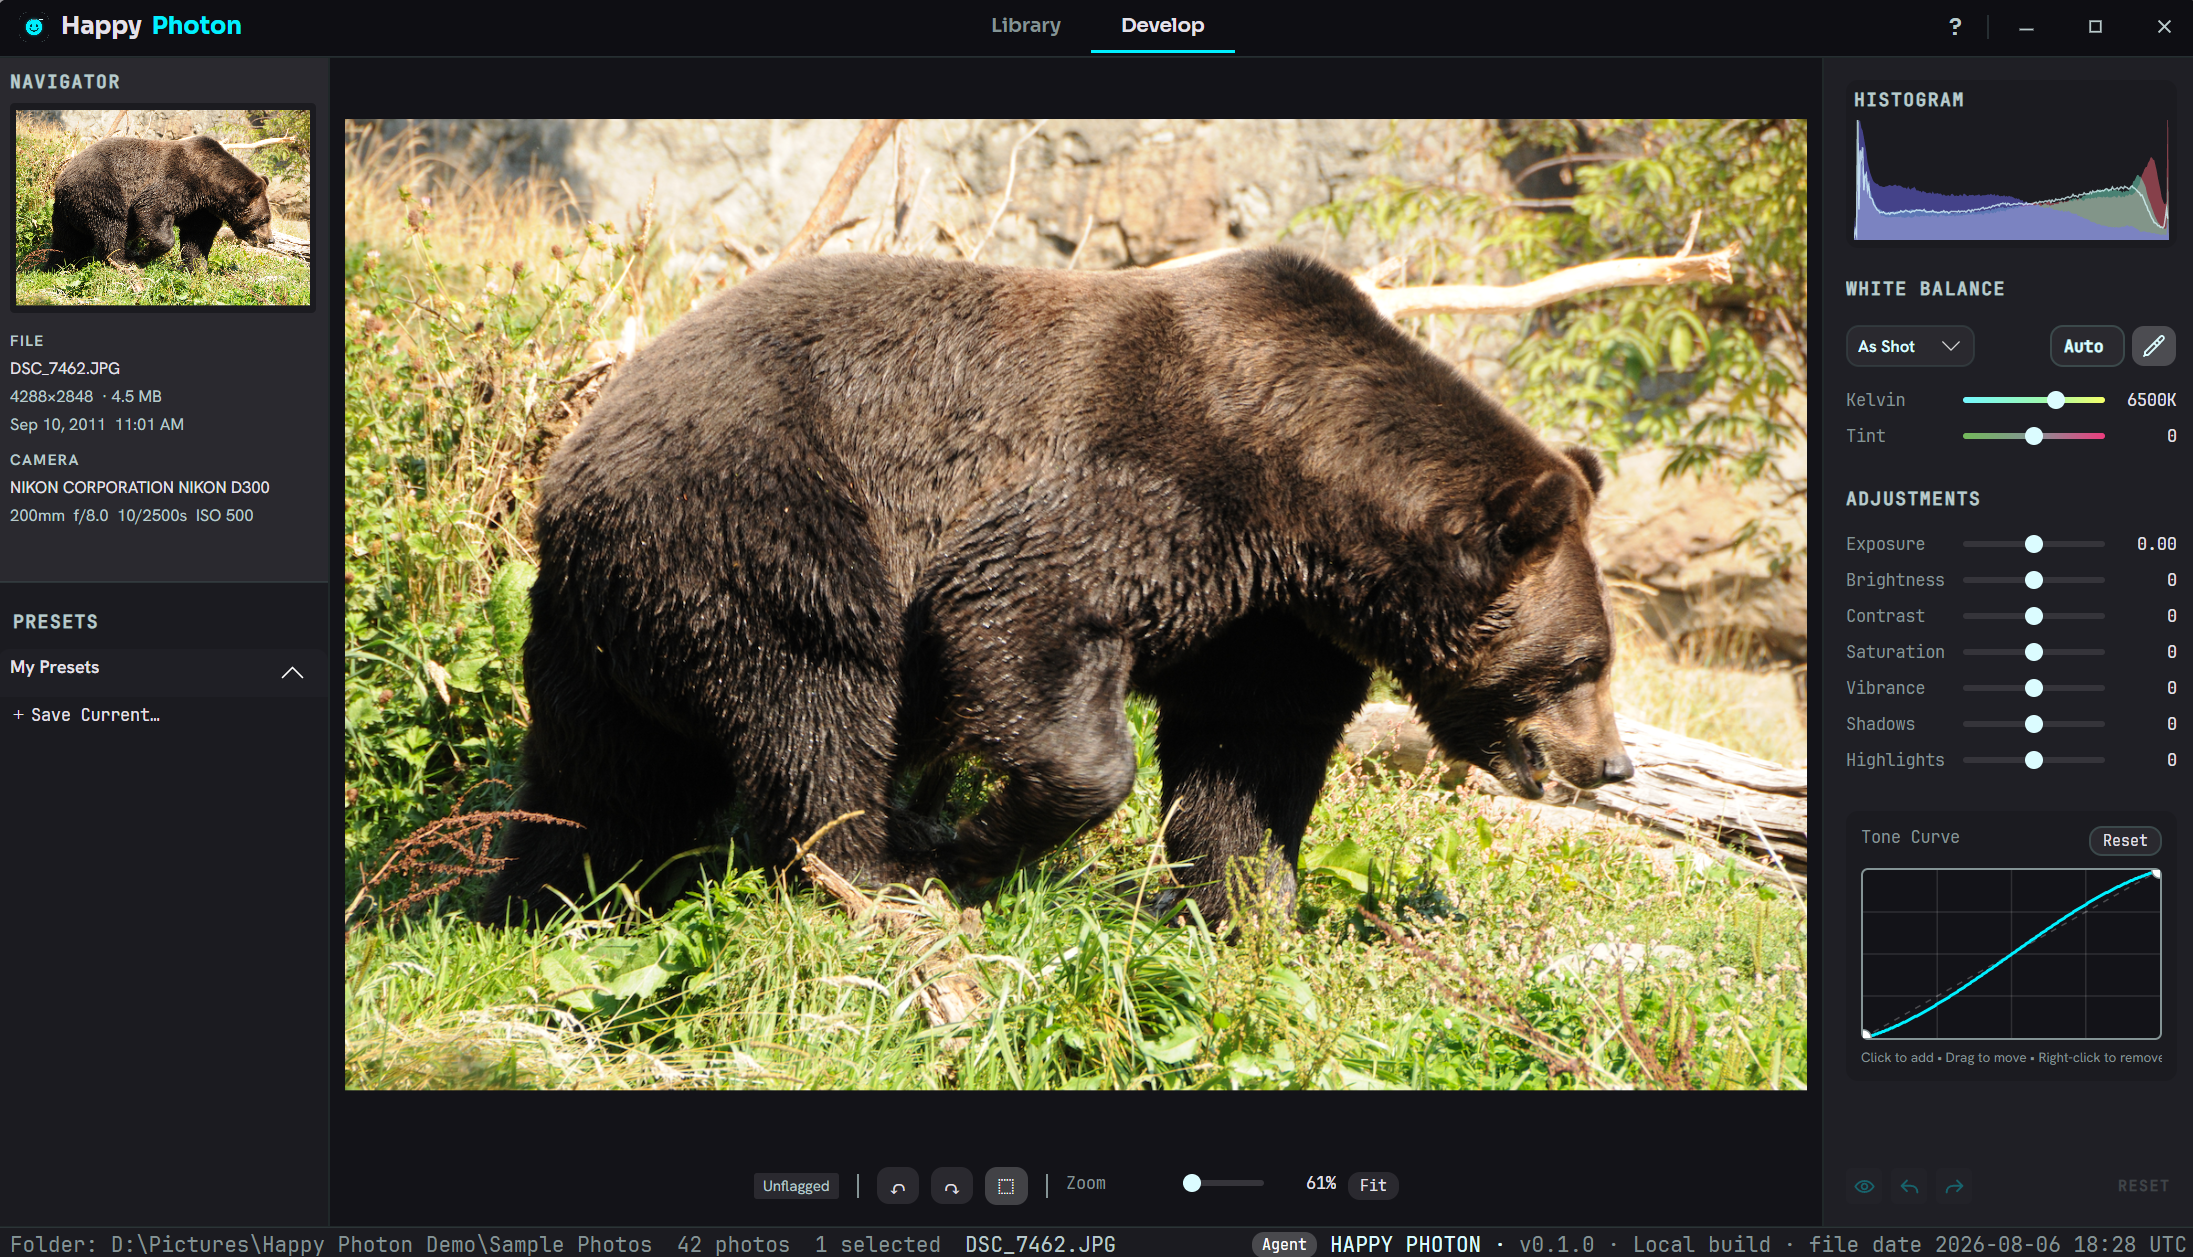
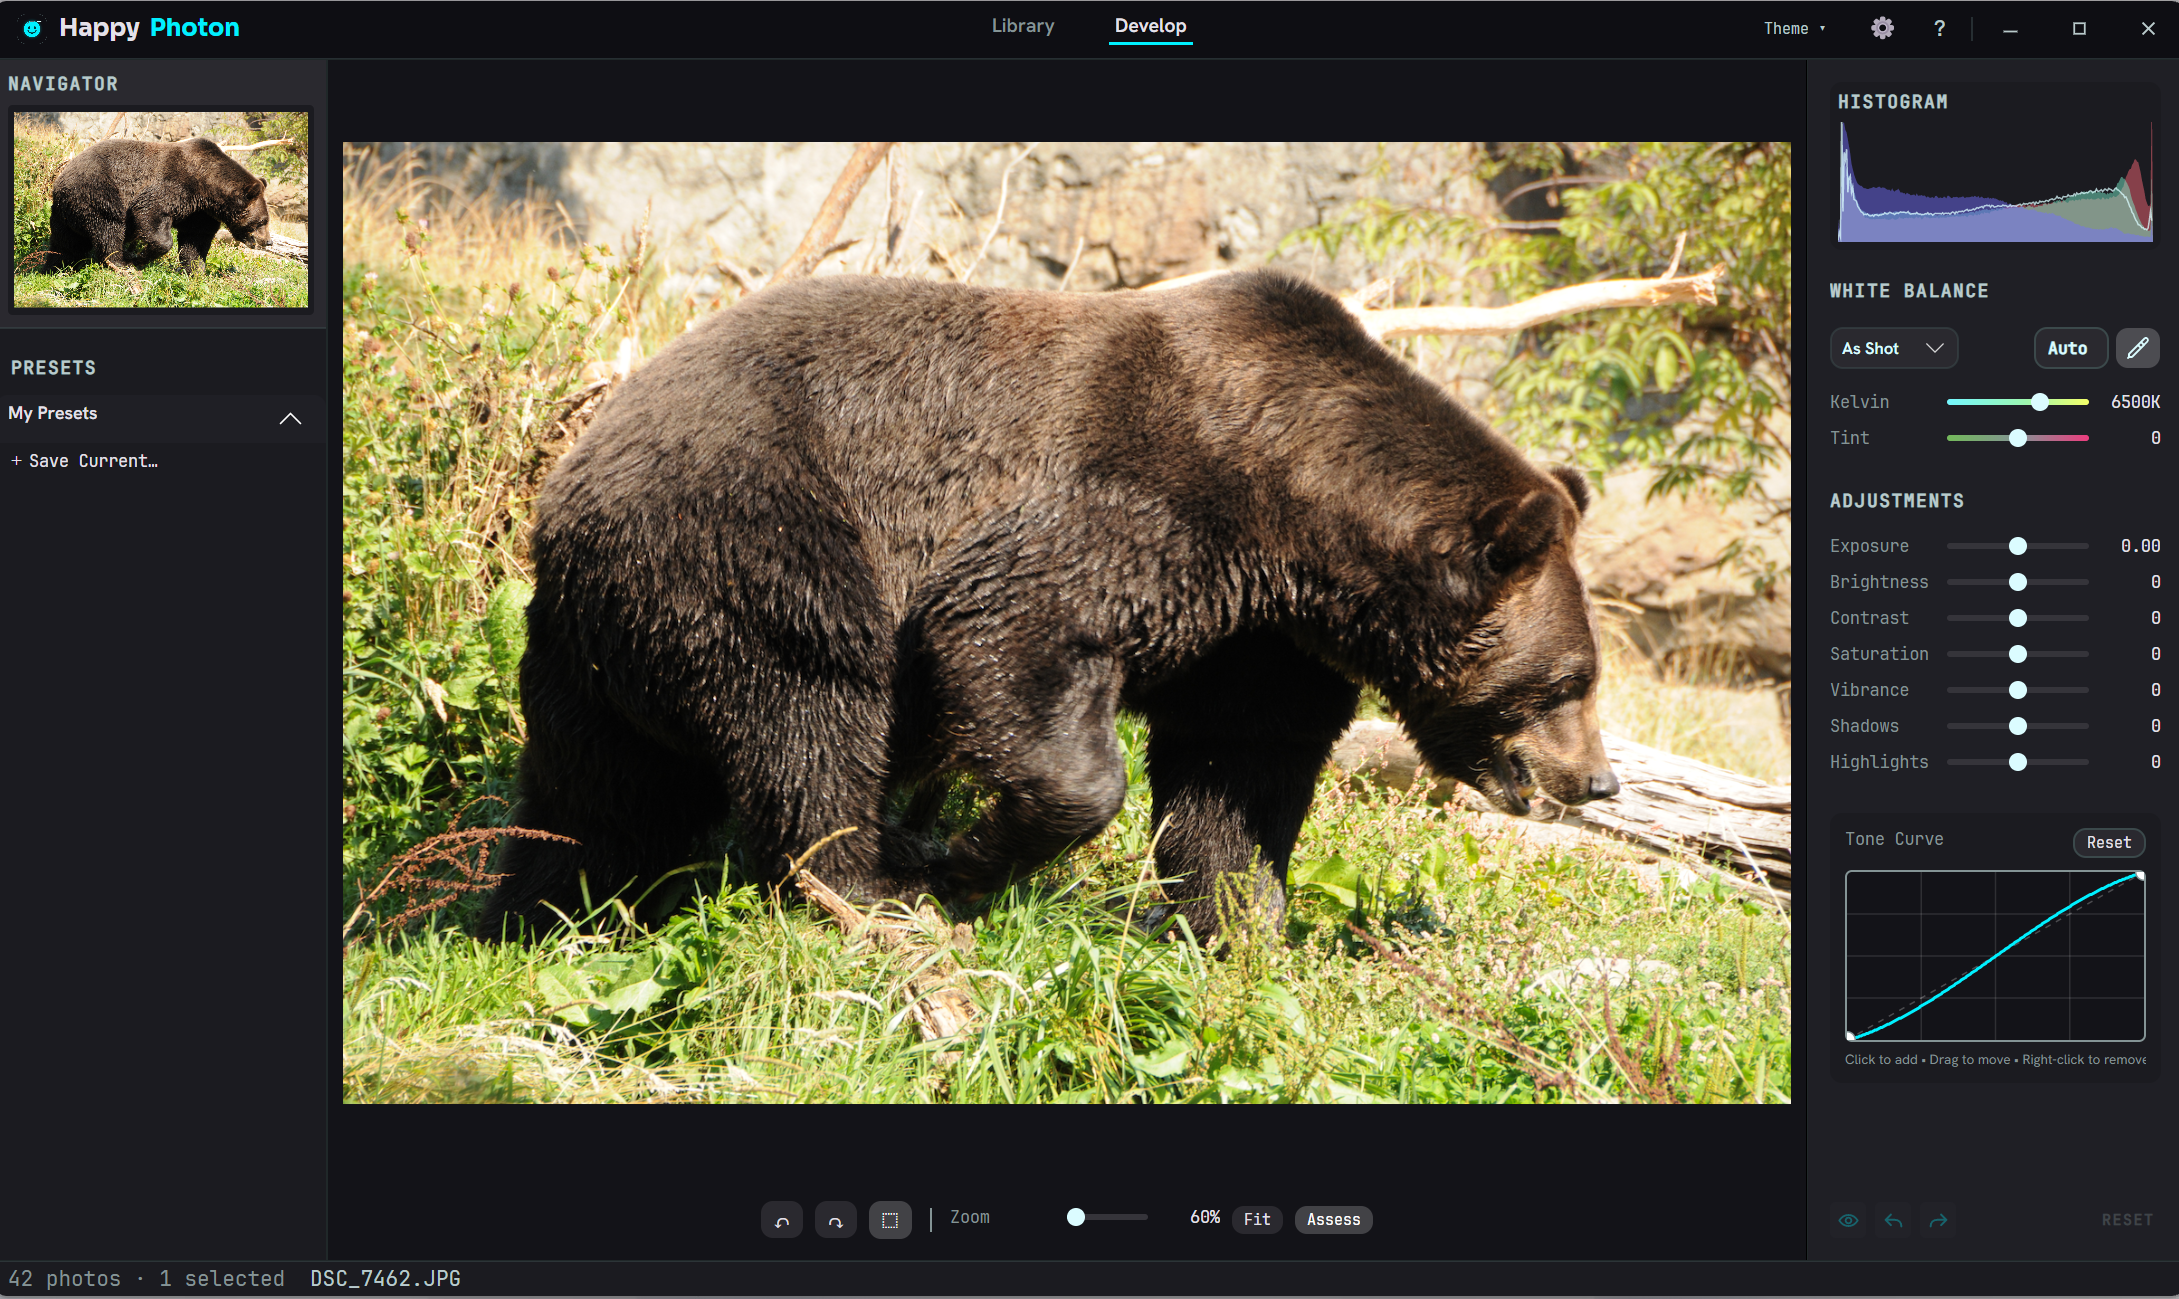
Refresh the documentation screenshots and drop the assessment test renders

diff --git a/Tests/ColorAssessmentScreenshotTests.cs b/Tests/ColorAssessmentScreenshotTests.cs
@@ -52,21 +52,21 @@ public sealed class ColorAssessmentScreenshotTests
             window.Show();
             Dispatcher.UIThread.RunJobs();
             vm.PreviewImage = bitmap;
-            Capture(window, "Screenshot_Develop_Assessment_Dark_Off.png");
+            Capture(window, "Dark with assessment off");
 
             vm.ToggleColorAssessmentModeCommand.Execute(null);
             Dispatcher.UIThread.RunJobs();
-            Capture(window, "Screenshot_Develop_Assessment_Dark_On.png");
+            Capture(window, "Dark with assessment on");
 
             vm.ToggleColorAssessmentModeCommand.Execute(null);
             vm.TransientStatus = null;
             application.RequestedThemeVariant = HappyPhotonThemes.MidGray;
             Dispatcher.UIThread.RunJobs();
-            Capture(window, "Screenshot_Develop_Assessment_MidGray_Off.png");
+            Capture(window, "Middle Gray with assessment off");
 
             vm.ToggleColorAssessmentModeCommand.Execute(null);
             Dispatcher.UIThread.RunJobs();
-            Capture(window, "Screenshot_Develop_Assessment_MidGray_On.png");
+            Capture(window, "Middle Gray with assessment on");
         }
         finally
         {
@@ -78,22 +78,11 @@ public sealed class ColorAssessmentScreenshotTests
         }
     }
 
-    private static void Capture(Window window, string fileName)
+    private static void Capture(Window window, string label)
     {
         using var frame = window.CaptureRenderedFrame();
         Assert.NotNull(frame);
-        Assert.True(frame.PixelSize.Width > 0);
-        Assert.True(frame.PixelSize.Height > 0);
-        if (Environment.GetEnvironmentVariable(
-                "HAPPY_PHOTON_UPDATE_SCREENSHOTS") != "1")
-        {
-            return;
-        }
-
-        frame.Save(Path.Combine(
-            GoldenTestPaths.RepositoryRoot,
-            "docs",
-            "screenshots",
-            fileName));
+        Assert.True(frame.PixelSize.Width > 0, $"{label} rendered with no width.");
+        Assert.True(frame.PixelSize.Height > 0, $"{label} rendered with no height.");
     }
 }
